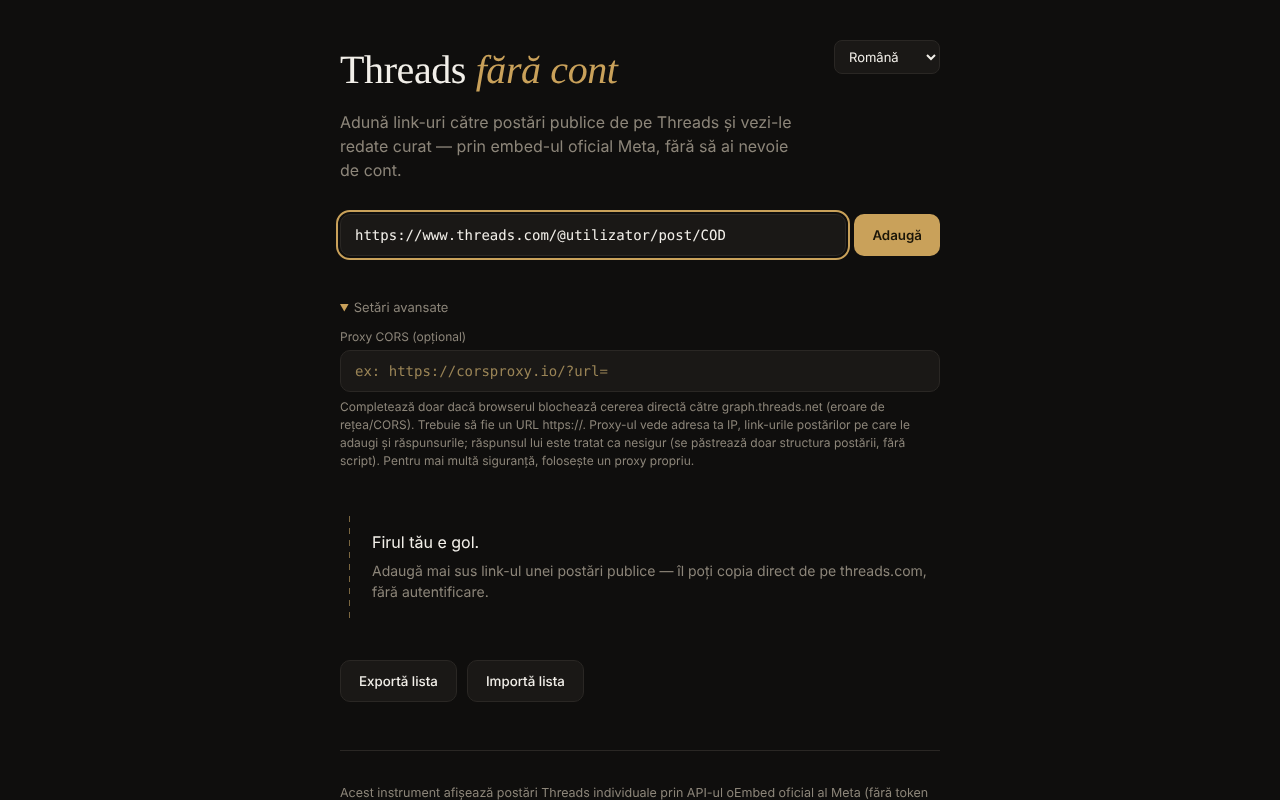
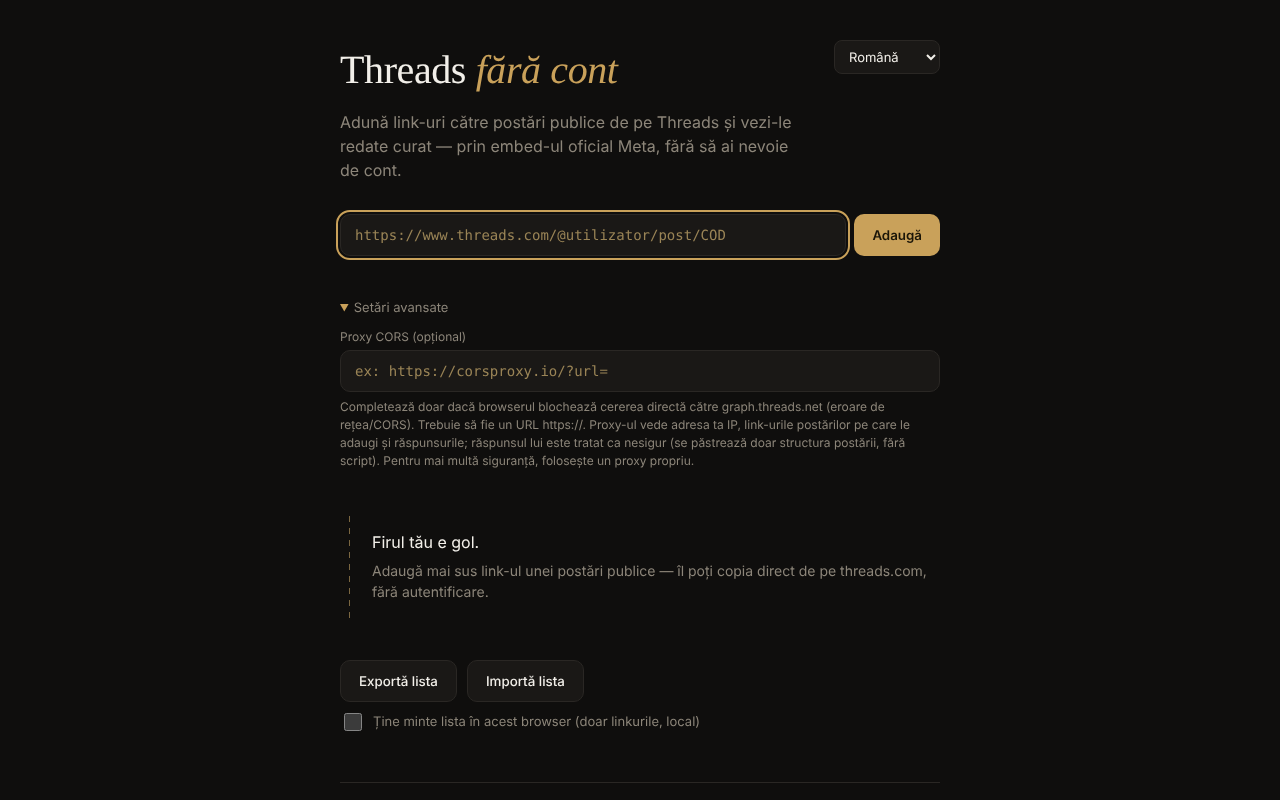
Runda 6 (11 octombrie 2026): reparații și îmbunătățiri
Claude-Session: https://claude.ai/code/session_01D2sCEb3hy3nutYexhUfQFs

Changed region(s): [[0.2812, 0.9688, 0.7188, 1.0], [0.2812, 0.2812, 0.5625, 0.3125], [0.25, 0.875, 0.5312, 0.9062]]

diff --git a/index.html b/index.html
@@ -6,7 +6,7 @@
 <title>Threads fără cont</title>
 <meta name="description" content="Vizualizator de postări publice Threads, fără cont, prin embed-ul oficial Meta. 7 limbi. Fără analitice; conținutul embed se încarcă de la Meta.">
 <meta name="theme-color" content="#0F0E0D">
-<meta http-equiv="Content-Security-Policy" content="default-src 'none'; script-src 'sha256-55T7TSCC857PTsSGJZa4QYTItwJiNlI+HF9PFIcrXx0=' https://www.threads.net https://www.threads.com; style-src 'unsafe-inline'; img-src data: https:; font-src https:; media-src https:; connect-src https:; frame-src https://www.threads.net https://www.threads.com https://*.threads.net https://*.threads.com; base-uri 'none'; form-action 'none'">
+<meta http-equiv="Content-Security-Policy" content="default-src 'none'; script-src https://www.threads.net https://www.threads.com 'sha256-KmxbBPuoofLUAgmYX/OQk+V680BzfcsgQWv9mzGpln4='; style-src 'unsafe-inline'; img-src data: https:; font-src https:; media-src https:; connect-src https:; frame-src https://www.threads.net https://www.threads.com https://*.threads.net https://*.threads.com; base-uri 'none'; form-action 'none'">
 <!--
   Threads fără cont — vizualizator de postări publice, fără autentificare, în 7 limbi
   (RO/EN/FR/IT/ES/PT/DE). Folosește API-ul oEmbed oficial al Meta
@@ -203,6 +203,18 @@
     font-size: 13px;
   }
   .ioActions { display: flex; gap: 8px; margin-top: 8px; }
+  .keepRow { display: flex; flex-wrap: wrap; gap: 10px 16px; align-items: center; margin: 4px 0 0; font-size: 13px; color: var(--muted); }
+  .keepRow label { display: inline-flex; gap: 8px; align-items: center; cursor: pointer; }
+  .keepRow input { width: 18px; height: 18px; accent-color: var(--accent); }
+  .keepRow button { padding: 8px 14px; background: var(--surface); color: var(--text); border: 1px solid var(--border); font-weight: 500; }
+  .retry { margin-top: 10px; padding: 8px 14px; background: var(--surface-2); color: var(--text); border: 1px solid var(--border); font-weight: 500; }
+  @media print {
+    .composer, .tools, .keepRow, #ioArea, .ioActions, footer, .langSelect, .remove, noscript { display: none !important; }
+    body { background: #fff; color: #000; }
+    .card { border-color: #999; background: #fff; break-inside: avoid; animation: none; }
+    .thread::before, .knot { display: none; }
+    .thread { padding-left: 0; }
+  }
   .hidden { display: none !important; }
 
   footer {
@@ -269,7 +281,16 @@
     <button id="exportBtn" type="button">Exportă lista</button>
     <button id="importBtn" type="button">Importă lista</button>
   </section>
+  <div class="keepRow">
+    <label><input type="checkbox" id="keepChk"> <span id="keepLabelEl">Ține minte lista în acest browser (doar linkurile, local)</span></label>
+    <button id="restoreBtn" type="button" class="hidden">Restaurează lista salvată</button>
+  </div>
   <textarea id="ioArea" class="hidden" placeholder="un link pe linie" aria-label="Import/export linkuri"></textarea>
+  <div class="ioActions hidden" id="ioExportActions">
+    <button id="ioCopy" type="button">Copiază</button>
+    <button id="ioDownload" type="button">Descarcă .txt</button>
+    <button id="ioClose" type="button">Renunță</button>
+  </div>
   <div class="ioActions hidden" id="ioActions">
     <button id="ioConfirm" type="button">Confirmă import</button>
     <button id="ioCancel" type="button">Renunță</button>
@@ -325,6 +346,12 @@
       corsHint: `Motiv probabil: browserul a blocat cererea directă (CORS). Deschide "Setări avansate" și completează un proxy.`,
       otherHint: `Postarea poate fi privată, restricționată de vârstă, geo-blocată, sau linkul nu este valid.`,
       removeLabel: `Elimină din fir`,
+      keepLabel: `Ține minte lista în acest browser (doar linkurile, local)`,
+      restoreBtn: function (n) { return `Restaurează lista salvată (${n})`; },
+      copyBtn: `Copiază`,
+      downloadBtn: `Descarcă .txt`,
+      copiedMsg: `Copiat.`,
+      retryBtn: `Reîncearcă`,
       importDoneMsg: function (ok, total) { return `Import finalizat: ${ok} din ${total} link-uri adăugate.`; }
     },
     en: {
@@ -363,6 +390,12 @@
       corsHint: `Likely reason: your browser blocked the direct request (CORS). Open "Advanced settings" and fill in a proxy.`,
       otherHint: `The post may be private, age-restricted, geo-blocked, or the link isn't valid.`,
       removeLabel: `Remove from thread`,
+      keepLabel: `Remember the list in this browser (links only, local)`,
+      restoreBtn: function (n) { return `Restore saved list (${n})`; },
+      copyBtn: `Copy`,
+      downloadBtn: `Download .txt`,
+      copiedMsg: `Copied.`,
+      retryBtn: `Retry`,
       importDoneMsg: function (ok, total) { return `Import complete: ${ok} of ${total} links added.`; }
     },
     fr: {
@@ -401,6 +434,12 @@
       corsHint: `Cause probable : le navigateur a bloqué la requête directe (CORS). Ouvrez "Paramètres avancés" et renseignez un proxy.`,
       otherHint: `La publication est peut-être privée, soumise à une restriction d'âge, géobloquée, ou le lien n'est pas valide.`,
       removeLabel: `Retirer du fil`,
+      keepLabel: `Mémoriser la liste dans ce navigateur (liens seulement, en local)`,
+      restoreBtn: function (n) { return `Restaurer la liste enregistrée (${n})`; },
+      copyBtn: `Copier`,
+      downloadBtn: `Télécharger .txt`,
+      copiedMsg: `Copié.`,
+      retryBtn: `Réessayer`,
       importDoneMsg: function (ok, total) { return `Import terminé : ${ok} lien(s) sur ${total} ajouté(s).`; }
     },
     it: {
@@ -439,6 +478,12 @@
       corsHint: `Motivo probabile: il browser ha bloccato la richiesta diretta (CORS). Apri "Impostazioni avanzate" e inserisci un proxy.`,
       otherHint: `Il post potrebbe essere privato, soggetto a restrizioni di età, bloccato geograficamente, oppure il link non è valido.`,
       removeLabel: `Rimuovi dal filo`,
+      keepLabel: `Ricorda l'elenco in questo browser (solo i link, in locale)`,
+      restoreBtn: function (n) { return `Ripristina l'elenco salvato (${n})`; },
+      copyBtn: `Copia`,
+      downloadBtn: `Scarica .txt`,
+      copiedMsg: `Copiato.`,
+      retryBtn: `Riprova`,
       importDoneMsg: function (ok, total) { return `Importazione completata: ${ok} di ${total} link aggiunti.`; }
     },
     es: {
@@ -477,6 +522,12 @@
       corsHint: `Motivo probable: el navegador bloqueó la solicitud directa (CORS). Abre "Configuración avanzada" y añade un proxy.`,
       otherHint: `La publicación puede ser privada, tener restricción de edad, estar bloqueada por región, o el enlace no es válido.`,
       removeLabel: `Quitar del hilo`,
+      keepLabel: `Recordar la lista en este navegador (solo los enlaces, en local)`,
+      restoreBtn: function (n) { return `Restaurar la lista guardada (${n})`; },
+      copyBtn: `Copiar`,
+      downloadBtn: `Descargar .txt`,
+      copiedMsg: `Copiado.`,
+      retryBtn: `Reintentar`,
       importDoneMsg: function (ok, total) { return `Importación completa: ${ok} de ${total} enlaces añadidos.`; }
     },
     pt: {
@@ -515,6 +566,12 @@
       corsHint: `Motivo provável: o navegador bloqueou o pedido direto (CORS). Abre "Definições avançadas" e indica um proxy.`,
       otherHint: `A publicação pode ser privada, ter restrição de idade, estar bloqueada por região, ou o link não é válido.`,
       removeLabel: `Remover do fio`,
+      keepLabel: `Lembrar a lista neste navegador (só os links, localmente)`,
+      restoreBtn: function (n) { return `Restaurar a lista guardada (${n})`; },
+      copyBtn: `Copiar`,
+      downloadBtn: `Transferir .txt`,
+      copiedMsg: `Copiado.`,
+      retryBtn: `Tentar novamente`,
       importDoneMsg: function (ok, total) { return `Importação concluída: ${ok} de ${total} links adicionados.`; }
     },
     de: {
@@ -553,6 +610,12 @@
       corsHint: `Wahrscheinlicher Grund: Der Browser hat die direkte Anfrage blockiert (CORS). Öffne "Erweiterte Einstellungen" und trage einen Proxy ein.`,
       otherHint: `Der Beitrag ist möglicherweise privat, altersbeschränkt, geoblockiert, oder der Link ist ungültig.`,
       removeLabel: `Aus dem Faden entfernen`,
+      keepLabel: `Liste in diesem Browser merken (nur Links, lokal)`,
+      restoreBtn: function (n) { return `Gespeicherte Liste wiederherstellen (${n})`; },
+      copyBtn: `Kopieren`,
+      downloadBtn: `TXT herunterladen`,
+      copiedMsg: `Kopiert.`,
+      retryBtn: `Erneut versuchen`,
       importDoneMsg: function (ok, total) { return `Import abgeschlossen: ${ok} von ${total} Links hinzugefügt.`; }
     }
   };
@@ -596,6 +659,37 @@
   const ioActions = document.getElementById('ioActions');
   const ioConfirm = document.getElementById('ioConfirm');
   const ioCancel = document.getElementById('ioCancel');
+  const ioExportActions = document.getElementById('ioExportActions');
+  const ioCopy = document.getElementById('ioCopy');
+  const ioDownload = document.getElementById('ioDownload');
+  const ioClose = document.getElementById('ioClose');
+  const keepChk = document.getElementById('keepChk');
+  const keepLabelEl = document.getElementById('keepLabelEl');
+  const restoreBtn = document.getElementById('restoreBtn');
+
+  // Persistență OPT-IN (implicit dezactivată): doar linkurile, în localStorage. Fără cereri de rețea la încărcare:
+  // lista salvată se reîncarcă numai când apeși „Restaurează”.
+  const LS_KEEP = 'tfc_keep', LS_LIST = 'tfc_list';
+  function lsGet(k) { try { return localStorage.getItem(k); } catch (e) { return null; } }
+  function lsSet(k, v) { try { localStorage.setItem(k, v); return true; } catch (e) { return false; } }
+  function lsDel(k) { try { localStorage.removeItem(k); } catch (e) {} }
+  function savedUrls() {
+    try {
+      const a = JSON.parse(lsGet(LS_LIST) || '[]');
+      return Array.isArray(a) ? a.filter(validUrl).slice(0, MAX_POSTS) : [];
+    } catch (e) { return []; }
+  }
+  let persistArmed = false;
+  function persistList() {
+    if (!keepChk.checked || !persistArmed) return;
+    lsSet(LS_LIST, JSON.stringify(state.posts.map(function (p) { return p.url; })));
+  }
+  function refreshRestore() {
+    const n = savedUrls().length;
+    const show = keepChk.checked && n > 0 && state.posts.length === 0;
+    restoreBtn.classList.toggle('hidden', !show);
+    if (show) restoreBtn.textContent = t('restoreBtn')(n);
+  }
 
   function setMsg(text, isError) {
     msgEl.textContent = text || '';
@@ -704,6 +798,7 @@
 
   function updateEmptyState() {
     emptyState.style.display = state.posts.length ? 'none' : '';
+    if (typeof persistList === 'function' && keepChk) { persistList(); refreshRestore(); }
   }
 
   function escapeHtml(s) {
@@ -724,7 +819,8 @@
       : (errKind === 'timeout') ? t('timeoutHint')
       : (errKind === 'proxy') ? t('badProxyMsg')
       : t('otherHint');
-    return '<p class="cardStatus error">' + t('loadFailedTitle') + '</p><p class="hint">' + hint + '</p>';
+    return '<p class="cardStatus error">' + t('loadFailedTitle') + '</p><p class="hint">' + hint + '</p>' +
+      '<button class="retry" type="button">' + escapeHtml(t('retryBtn')) + '</button>';
   }
 
   function renderPlaceholderCard(postEntry) {
@@ -840,6 +936,18 @@
     return true;
   }
 
+  threadEl.addEventListener('click', function (ev) {
+    const b = ev.target && ev.target.closest ? ev.target.closest('.retry') : null;
+    if (!b) return;
+    const card = b.closest('.card');
+    const entry = card && state.posts.find(function (p) { return p.id === card.dataset.id; });
+    if (!entry || entry.status !== 'error') return;
+    entry.status = 'loading'; entry.errKind = null;
+    card.classList.remove('failed'); card.classList.add('loading');
+    card.querySelector('.cardBody').innerHTML = renderLoadingBody(entry.url);
+    loadPost(entry, card);
+  });
+
   function applyLanguage(lang) {
     currentLang = LANGS.indexOf(lang) !== -1 ? lang : 'ro';
     document.documentElement.lang = currentLang;
@@ -862,6 +970,11 @@
     ioArea.setAttribute('aria-label', t('ioAreaAriaLabel'));
     ioConfirm.textContent = t('ioConfirmBtn');
     ioCancel.textContent = t('ioCancelBtn');
+    ioClose.textContent = t('ioCancelBtn');
+    ioCopy.textContent = t('copyBtn');
+    ioDownload.textContent = t('downloadBtn');
+    keepLabelEl.textContent = t('keepLabel');
+    refreshRestore();
     footerTextEl.textContent = t('footerText');
     privacyNoteEl.textContent = t('privacyNote');
     langSelect.setAttribute('aria-label', t('langSelectLabel'));
@@ -881,22 +994,41 @@
 
   // lista nu se salvează (fără stocare locală): avertizează dacă o închizi cu postări în ea
   window.addEventListener('beforeunload', function (e) {
-    if (state.posts && state.posts.length) { e.preventDefault(); e.returnValue = ''; }
+    if (state.posts && state.posts.length && !keepChk.checked) { e.preventDefault(); e.returnValue = ''; }
   });
 
   // export / import — singurul mecanism de persistență: userul își salvează
-  // singur lista (fără localStorage, fără server, fără telemetrie).
+  // singur lista (implicit fără localStorage, fără server, fără telemetrie).
   exportBtn.addEventListener('click', function () {
     ioArea.value = state.posts.map(function (p) { return p.url; }).join('\n');
     ioArea.classList.remove('hidden');
     ioActions.classList.add('hidden');
+    ioExportActions.classList.remove('hidden');
     ioArea.focus();
     ioArea.select();
+  });
+
+  ioCopy.addEventListener('click', function () {
+    function ok() { setMsg(t('copiedMsg')); }
+    if (navigator.clipboard && navigator.clipboard.writeText) navigator.clipboard.writeText(ioArea.value).then(ok, function () { ioArea.select(); });
+    else { ioArea.select(); try { if (document.execCommand('copy')) ok(); } catch (e) {} }
+  });
+  ioDownload.addEventListener('click', function () {
+    const blob = new Blob([ioArea.value + '\n'], { type: 'text/plain;charset=utf-8' });
+    const a = document.createElement('a');
+    a.href = URL.createObjectURL(blob); a.download = 'threads-lista.txt';
+    document.body.appendChild(a); a.click(); a.remove();
+    setTimeout(function () { URL.revokeObjectURL(a.href); }, 1000);
+  });
+  ioClose.addEventListener('click', function () {
+    ioArea.classList.add('hidden');
+    ioExportActions.classList.add('hidden');
   });
 
   importBtn.addEventListener('click', function () {
     ioArea.value = '';
     ioArea.classList.remove('hidden');
+    ioExportActions.classList.add('hidden');
     ioActions.classList.remove('hidden');
     ioArea.focus();
   });
@@ -929,8 +1061,31 @@
     ioActions.classList.add('hidden');
   });
 
+  keepChk.checked = lsGet(LS_KEEP) === '1';
+  keepChk.addEventListener('change', function () {
+    if (keepChk.checked) { lsSet(LS_KEEP, '1'); persistList(); }
+    else { lsDel(LS_KEEP); lsDel(LS_LIST); }
+    refreshRestore();
+  });
+  restoreBtn.addEventListener('click', function () {
+    const urls = savedUrls();
+    restoreBtn.classList.add('hidden');
+    const jobs = [];
+    urls.forEach(function (u) {
+      const r = createPost(u);
+      if (r.entry) jobs.push(function () { return loadPost(r.entry, r.card); });
+    });
+    setMsg(t('loadingShort'));
+    let next = 0;
+    async function worker() { while (next < jobs.length) { const j = jobs[next++]; await j(); } }
+    const ws = [];
+    for (let i = 0; i < IMPORT_CONCURRENCY; i++) ws.push(worker());
+    Promise.all(ws).then(function () { setMsg(t('importDoneMsg')(jobs.length, urls.length)); });
+  });
+
   applyLanguage(detectDefaultLang());
   updateEmptyState();
+  persistArmed = true;
 })();
 </script>
 </body>

diff --git a/README.md b/README.md
@@ -20,6 +20,8 @@ Un „fir" construit manual din link-uri către postări Threads publice. Aplica
 - Câmp opțional „Proxy CORS": doar `https://`, fără utilizator/parolă; poate conține `{url}` sau primește URL-ul oEmbed codat la final.
 - Timeout de 15 secunde per cerere, cu mesaje de eroare distincte (CORS/rețea, timeout, proxy invalid, răspuns gol).
 - Răspunsul oEmbed (și al proxy-ului) este tratat ca nesigur: se parsează într-un document inert și se păstrează doar `blockquote.text-post-media` cu text și legături către `threads.net`/`threads.com`; scripturile, atributele `on*`, `style` și URL-urile `javascript:` sunt eliminate.
+- Salvare locală opțională („Ține minte lista în acest browser”, implicit oprită): se păstrează doar linkurile, în `localStorage`; la următoarea vizită apare butonul „Restaurează lista salvată”, fără nicio cerere de rețea până îl apeși. Dezactivarea șterge lista salvată.
+- Export: zona de text are acum butoane „Copiază” și „Descarcă .txt”; cardurile eșuate au buton „Reîncearcă”; stil de tipărire (se tipărește doar firul).
 - Selector de limbă; limba implicită din setările browserului.
 
 ## Manual de utilizare
@@ -35,7 +37,7 @@ Un „fir" construit manual din link-uri către postări Threads publice. Aplica
 
 **Fără cont ≠ fără urmărire.**
 
-- Stocare: aplicația nu folosește `localStorage`, `sessionStorage`, cookie-uri sau IndexedDB. Lista există doar în memoria filei; o salvezi tu prin export.
+- Stocare: implicit aplicația nu folosește `localStorage`, `sessionStorage`, cookie-uri sau IndexedDB; lista există doar în memoria filei și o salvezi tu prin export. Doar dacă bifezi „Ține minte lista în acest browser”, linkurile (nu conținutul postărilor) se scriu în `localStorage` (`tfc_keep`, `tfc_list`) și se șterg la debifare.
 - Gazde contactate, doar când adaugi o postare: `graph.threads.net` (cererea oEmbed; sau proxy-ul pe care îl configurezi tu) și `www.threads.net` (scriptul `embed.js`, cod terț controlat de Meta, încărcat din adresa fixă din cod, niciodată din răspuns). `embed.js` creează apoi iframe-uri către domeniile Threads.
 - Meta vede adresa ta IP, datele browserului și postările pe care le vizualizezi. Un proxy configurat de tine vede IP-ul tău, link-urile adăugate și răspunsurile.
 - Pagina conține o politică CSP (`meta http-equiv`) care limitează scripturile la scriptul propriu (identificat prin hash SHA-256, fără `'unsafe-inline'`) și la `threads.net`/`threads.com` și cadrele la domeniile Threads. Compatibilitatea cu `embed.js` real nu a putut fi testată din mediul de dezvoltare (fără acces la rețea).
@@ -46,7 +48,7 @@ Un „fir" construit manual din link-uri către postări Threads publice. Aplica
 - Afirmația că oEmbed Threads funcționează fără token din 15 iunie 2026 provine din anunțul Meta („Tokenless access to Meta oEmbed APIs", blogul Meta pentru dezvoltatori, 15.06.2026); documentația veche cere încă token, iar limitele și condițiile pot diferi — verifică documentația Meta.
 - Termenii Meta permit embed-ul doar pentru afișare; aplicația nu extrage și nu păstrează conținutul postărilor.
 - Nu poate lista automat postările unui profil (Meta nu oferă acest API public).
-- Dacă închizi sau reîncarci pagina cu postări în fir, browserul cere confirmare (lista nu se salvează; folosește „Exportă lista”).
+- Dacă închizi sau reîncarci pagina cu postări în fir, browserul cere confirmare (lista nu se salvează decât dacă ai bifat salvarea locală; altfel folosește „Exportă lista”).
 - Postările private, restricționate pe vârstă sau geo-blocate nu se afișează.
 - Browserul poate bloca cererea directă (CORS); atunci este nevoie de un proxy, cu implicațiile de confidențialitate de mai sus.
 - Dacă dai de un conținut ilegal sau dăunător, raportează-l la Meta; aplicația nu moderează nimic.
@@ -56,6 +58,9 @@ Un „fir" construit manual din link-uri către postări Threads publice. Aplica
 Descarcă `index.html` și deschide-l în browser. Fără internet nu se poate încărca nicio postare (aplicația există pentru conținut de pe internet); interfața, validarea și importul/exportul funcționează local.
 
 ## Istoric / Changelog
+
+### 11 octombrie 2026 (a doua trecere)
+- Salvare locală opțională a listei de linkuri (implicit oprită) cu restaurare la cerere; export cu „Copiază”/„Descarcă .txt”; „Reîncearcă” pe cardurile eșuate; stil de tipărire; texte noi în toate cele 7 limbi. CSP: hash-ul scriptului recalculat.
 
 ### 11 octombrie 2026
 - Accesibilitate: conținutul este încadrat în `<main>`; axe-core raportează 0 încălcări la 1280 și 360 px.
